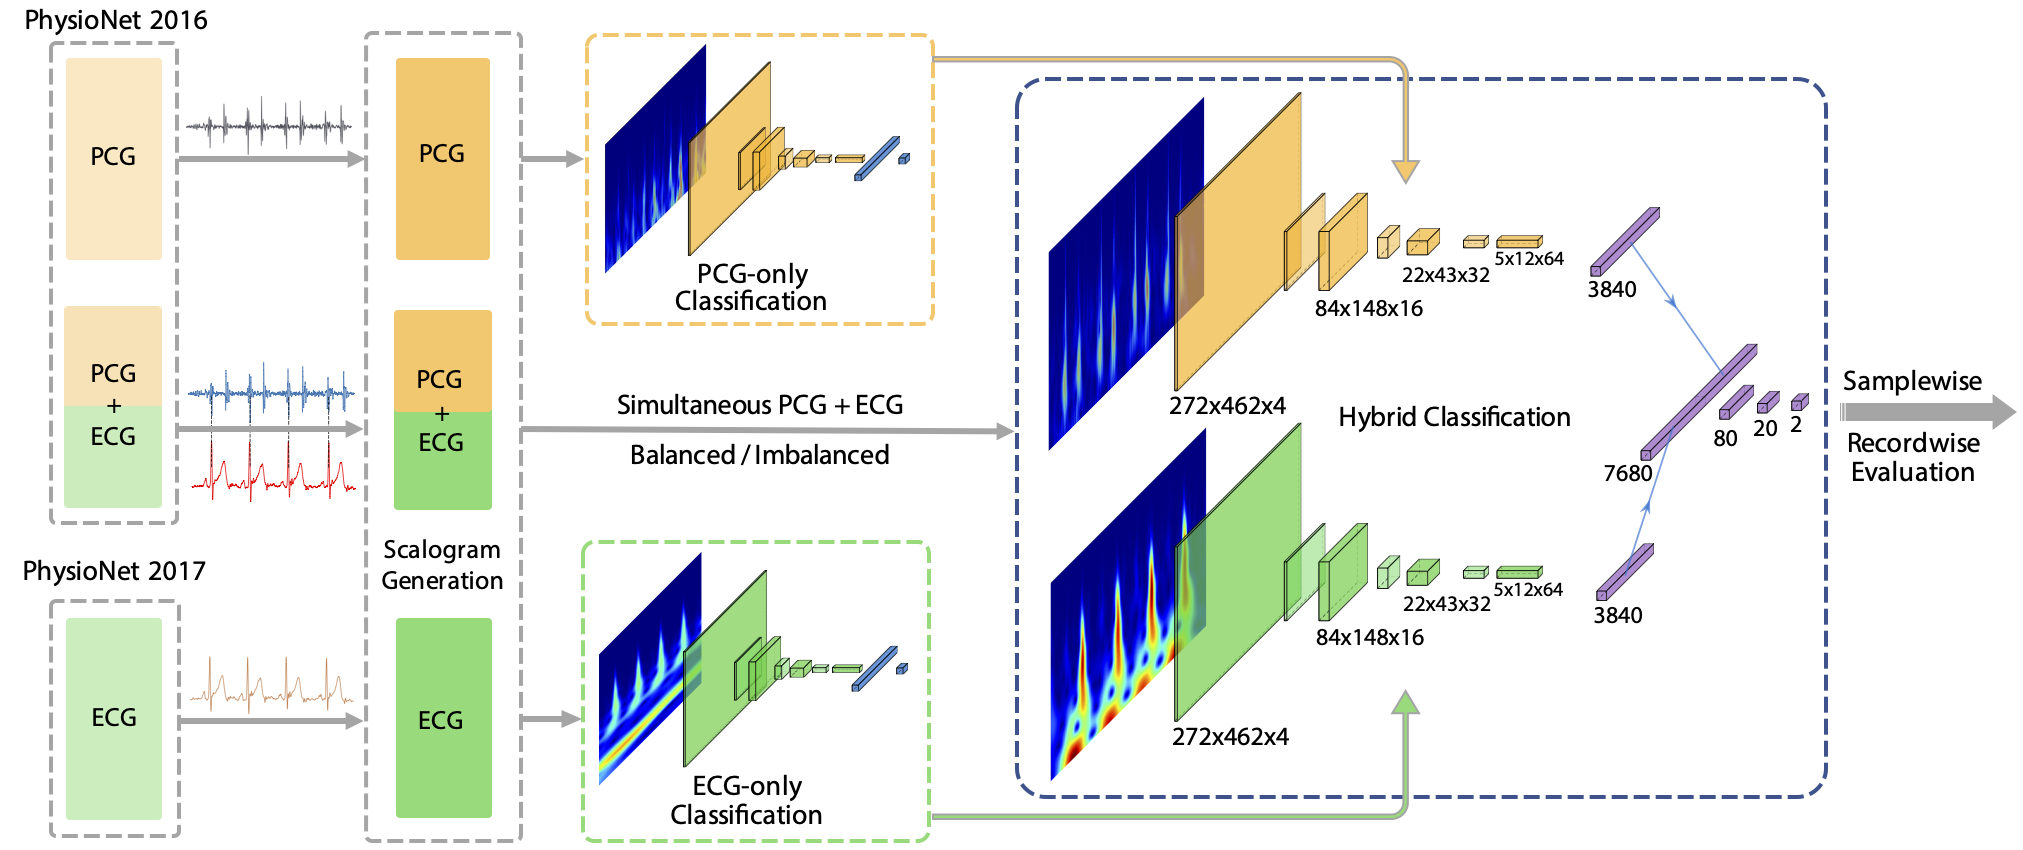
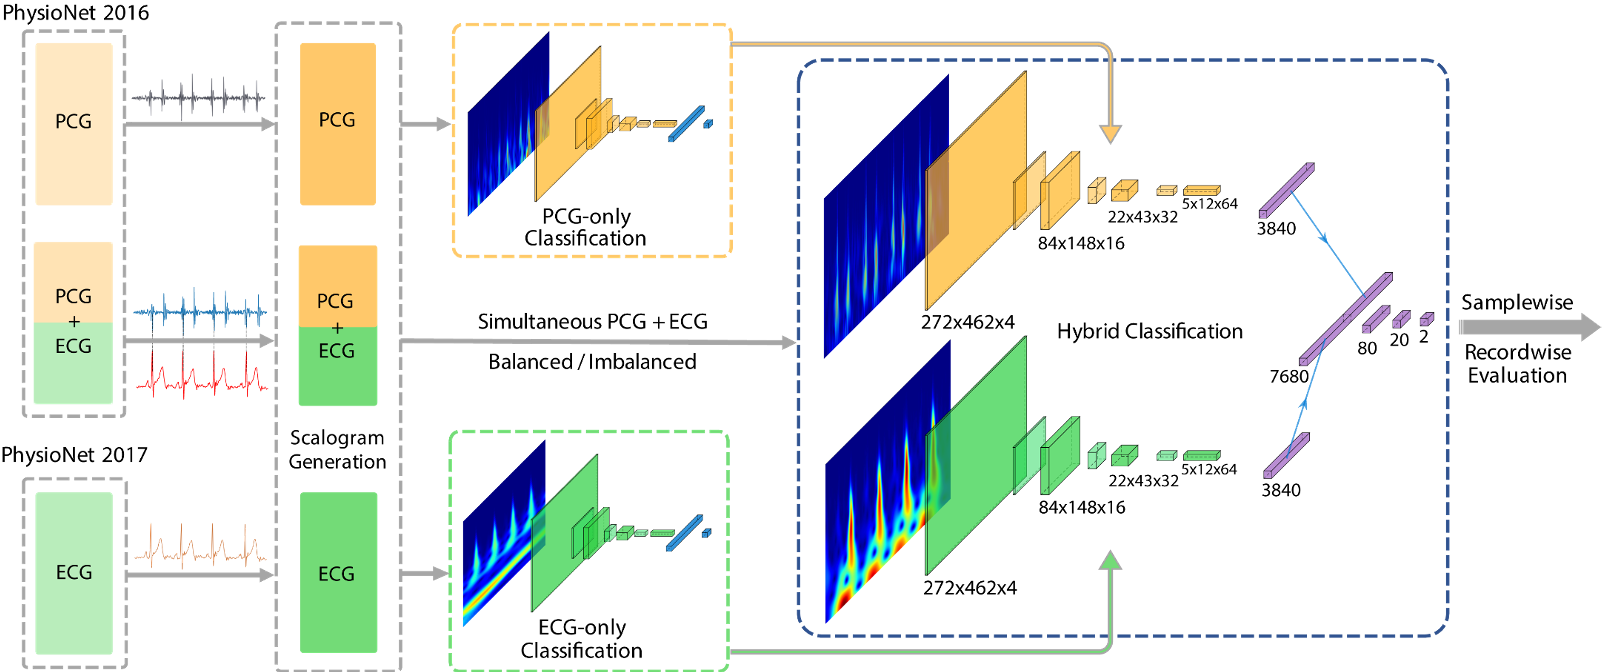
Better pipeline fig

Changed region(s): [[0.0, 0.0, 0.9051, 1.0], [0.7803, 0.4062, 0.9988, 0.5938]]

diff --git a/docs/index.html b/docs/index.html
@@ -53,8 +53,8 @@
     <section class="gray">
       <div class="container">
         <div class="row">
-          <div class="col-md-6"><br><br><br><img src="/img/pipeline.png" style="max-height:700px;margin-top:12px;"></div>
-          <div class="col-md-6">
+          <div class="col-md-7"><br><br><br><br><img src="/img/pipeline.png" style="max-height:700px;margin-top:12px;"></div>
+          <div class="col-md-5">
             <h3>Transfer Learning-Based Approach for Screening Pre-existing Heart Diseases Using Synchronized ECG Signals and Heart Sounds</h3>
             <p>
                Diagnosing pre-existing heart diseases early in life is important as it helps 
